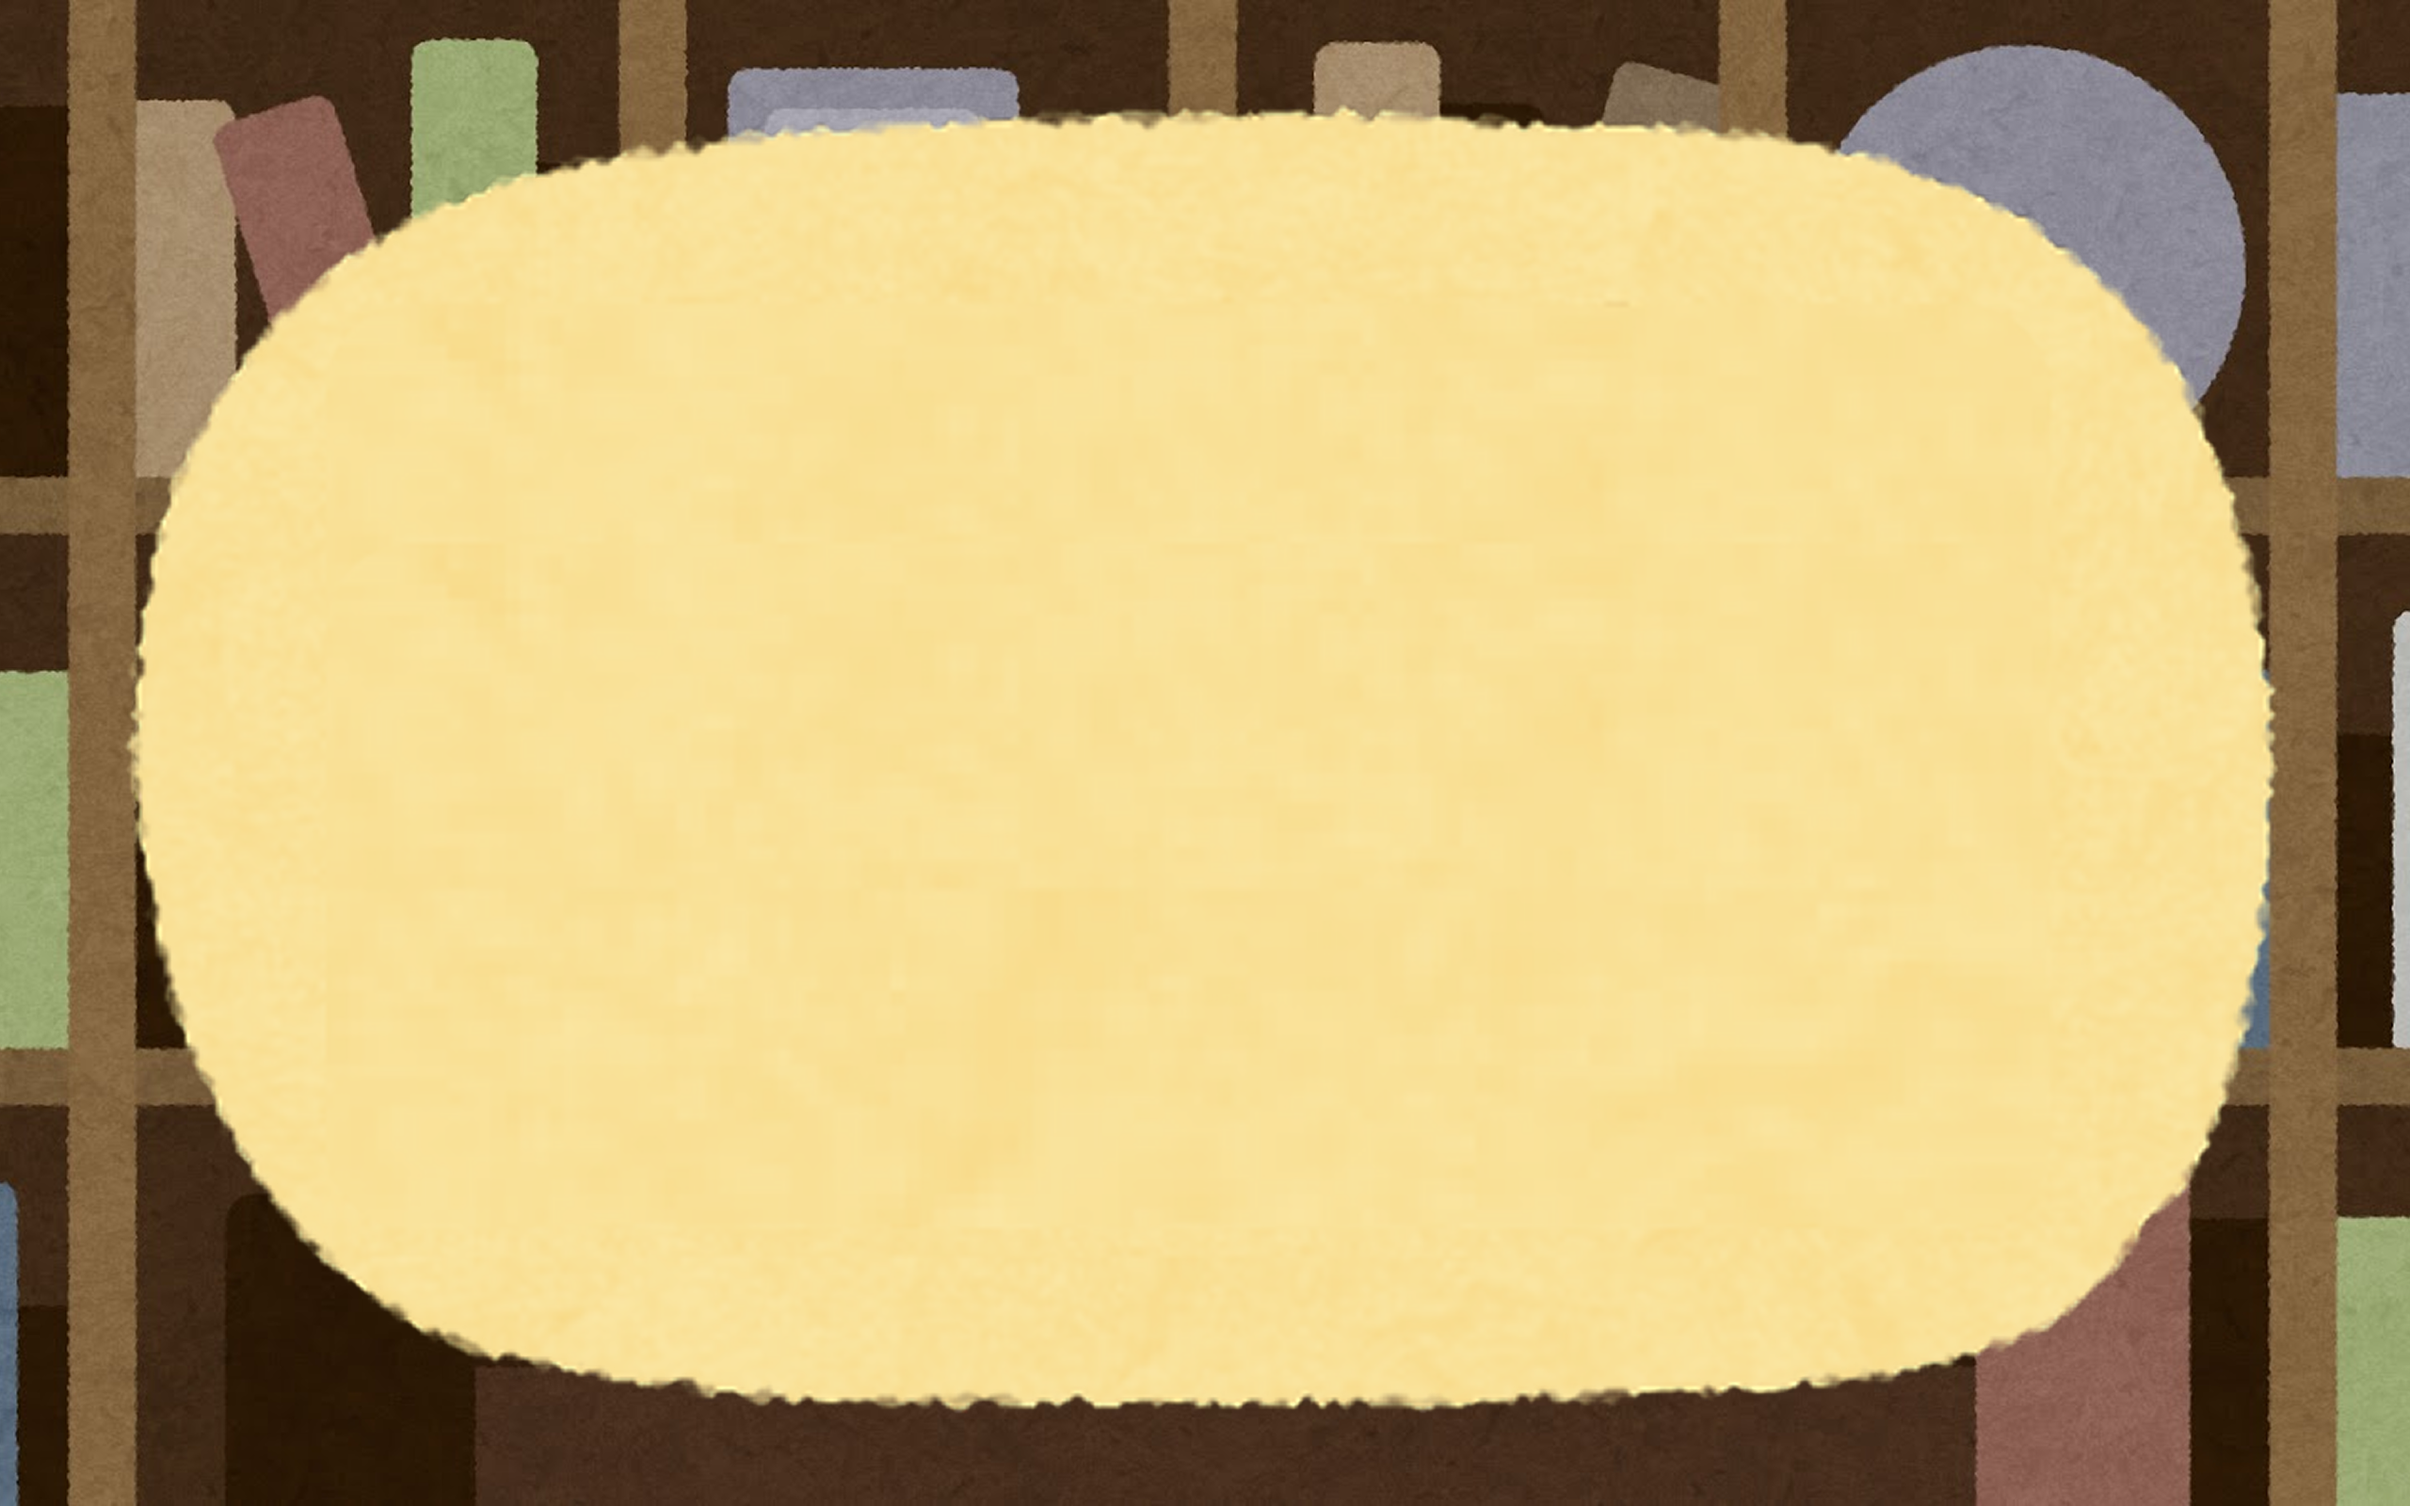
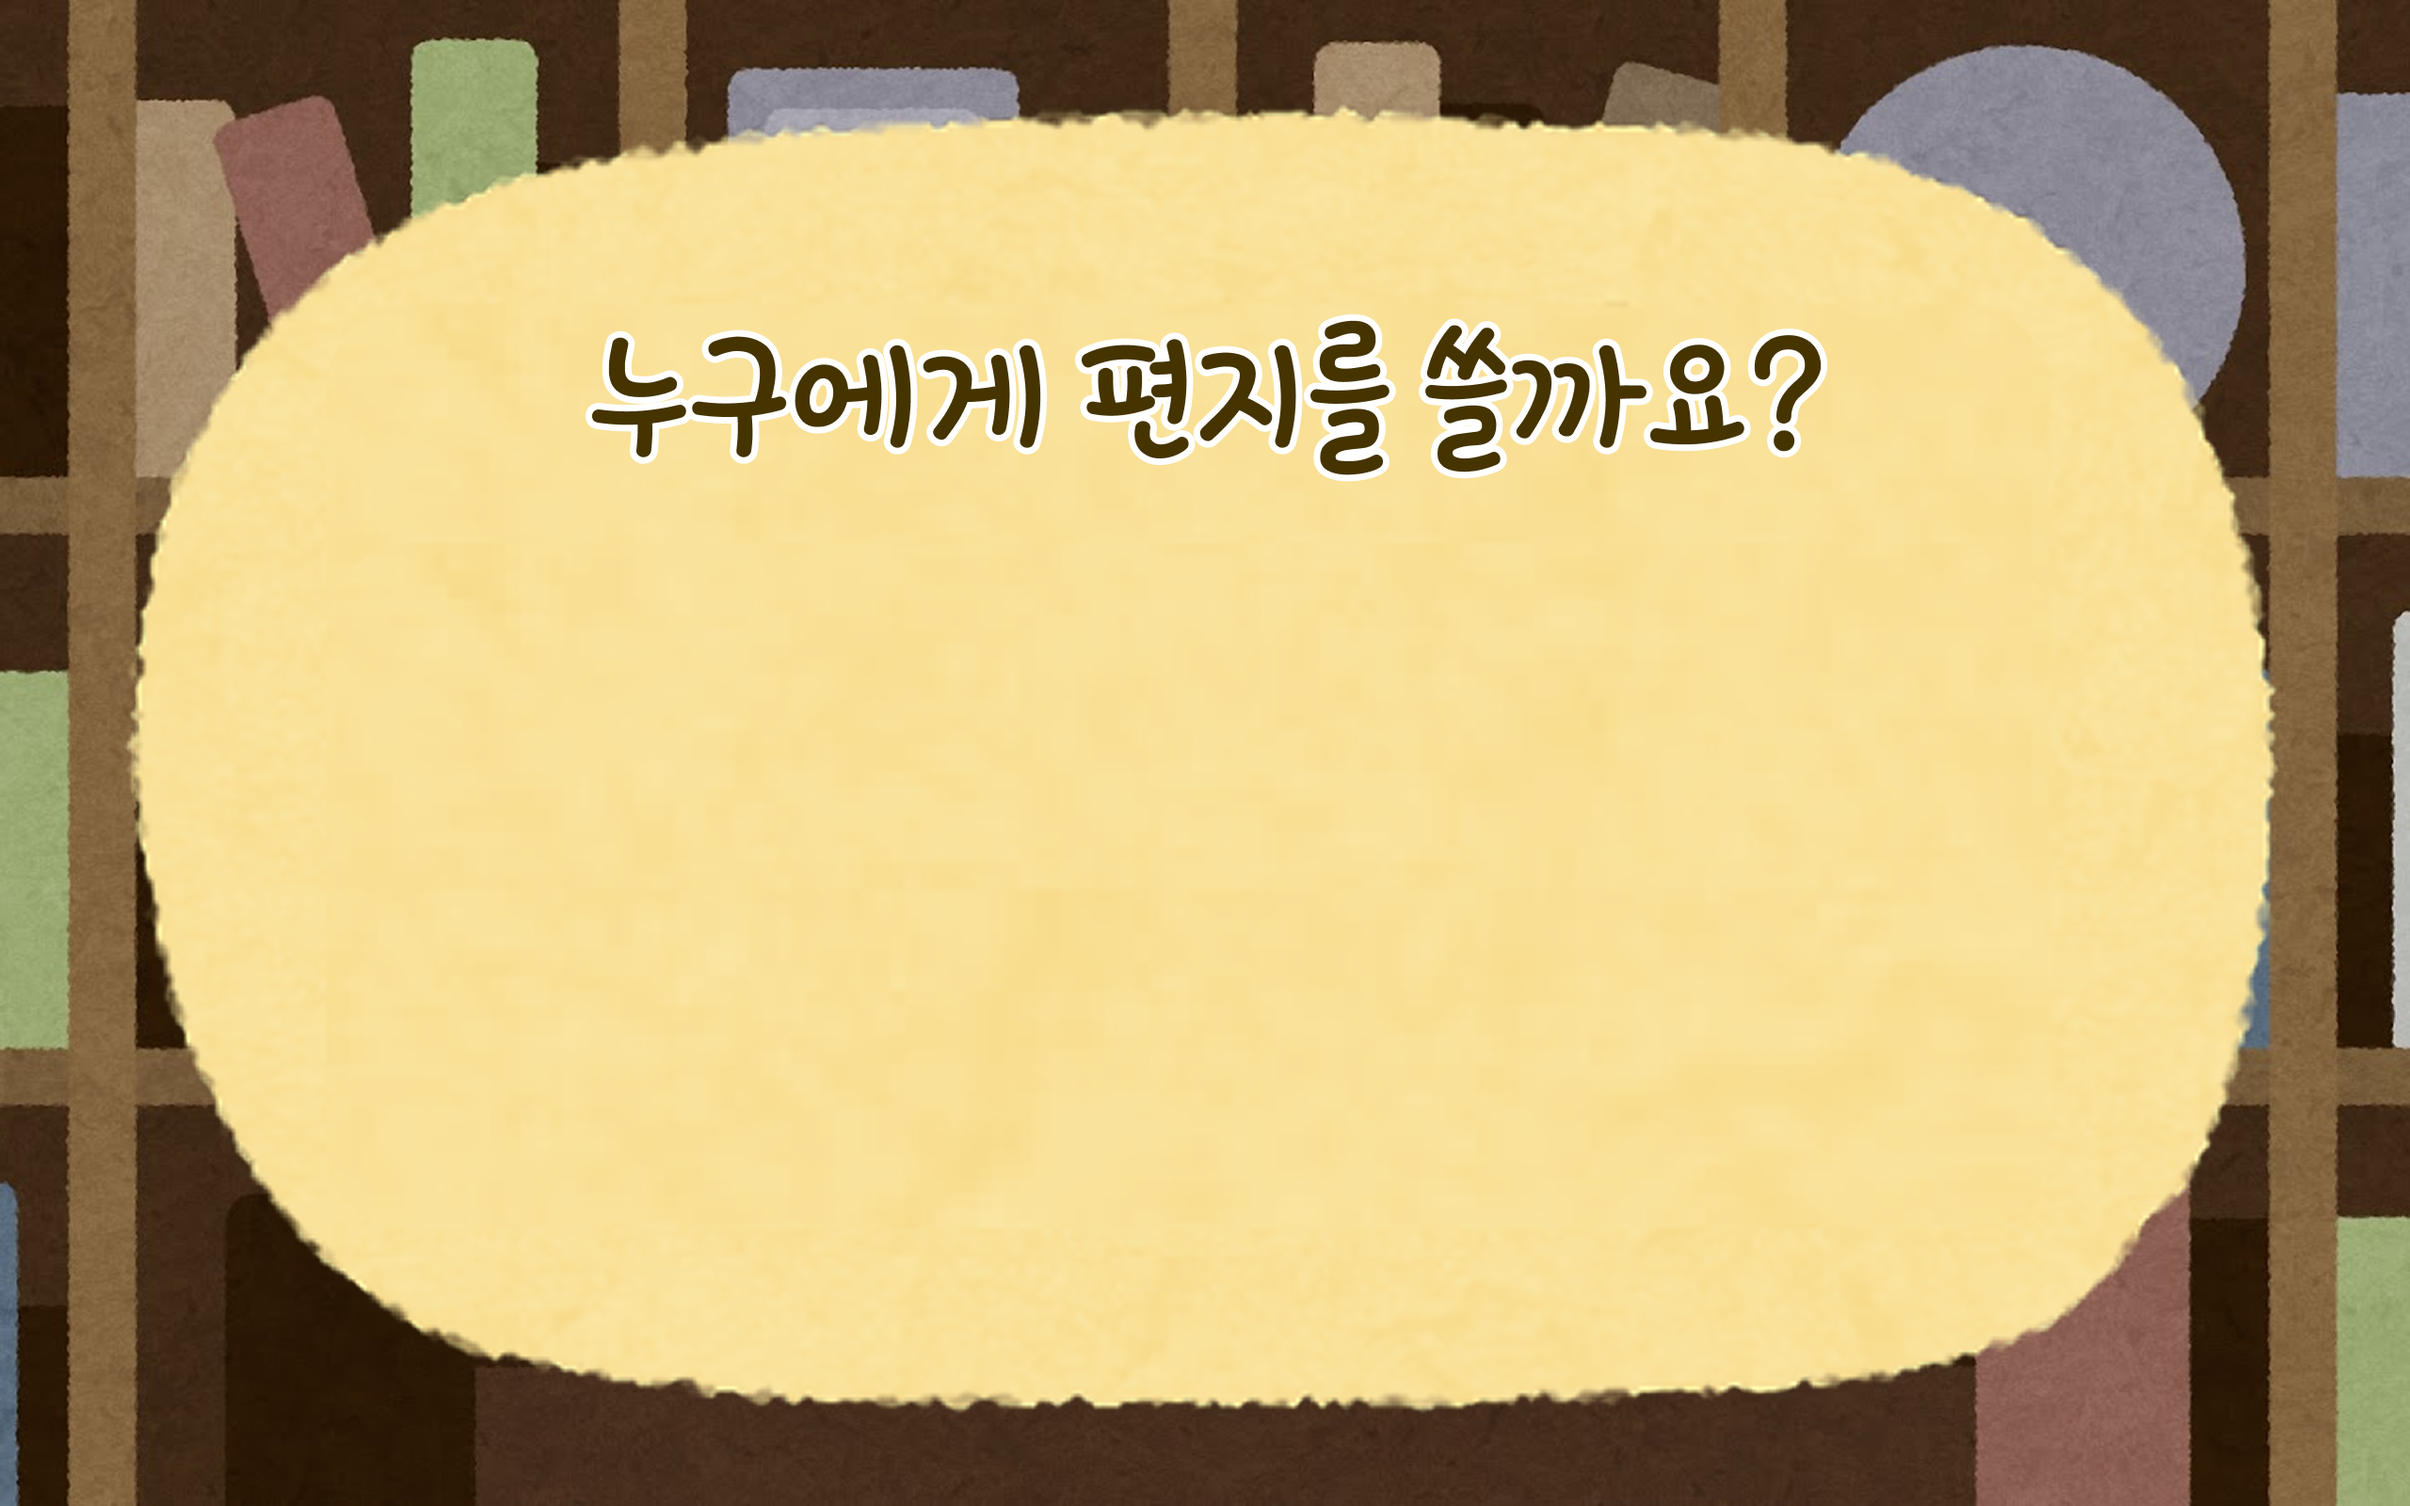
[feat] 로딩 및 편지 보내기 화면 구현 완료

Changed region(s): [[0.25, 0.1875, 0.7812, 0.3125]]

diff --git a/frontend/src/pages/Loading.tsx b/frontend/src/pages/Loading.tsx
@@ -1,9 +1,35 @@
 import mainpage from "../assets/images/mainpage/mainpage.webp";
+import Bear from "../assets/images/loading/bear.webp"
+import Rabbit from "../assets/images/loading/rabbit.webp"
+import Cat2 from "../assets/images/loading/cat2.webp"
+import Monkey from "../assets/images/loading/monkey.webp"
+import Note1 from "../assets/images/loading/note1.webp"
+import Note2 from "../assets/images/loading/note2.webp" 
+import Note3 from "../assets/images/loading/note3.webp"
 
 function Loading() {
   return (
-    <div className="fixed inset-0 w-screen h-screen bg-cover bg-center" style={{ backgroundImage: `url(${mainpage})` }}>
-      <h1>로딩 화면입니다.</h1>
+    <div className="fixed inset-0 w-screen h-screen bg-cover bg-center pointer-events-none" style={{ backgroundImage: `url(${mainpage})` }}>
+      
+      <div className="flex justify-center gap-28 mt-28">
+        <img src={Note1} alt="Note1" className="w-[10vw] max-w-[1200px] min-w-[100px] animate-bounce-infinite1" />
+        <img src={Note2} alt="Note2" className="w-[10vw] max-w-[1200px] min-w-[100px] animate-bounce-infinite2" />
+        <img src={Note3} alt="Note3" className="w-[10vw] max-w-[1200px] min-w-[100px] animate-bounce-infinite3" />
+        <img src={Note1} alt="Note1" className="w-[10vw] max-w-[1200px] min-w-[100px] animate-bounce-infinite1" />
+        <img src={Note2} alt="Note2" className="w-[10vw] max-w-[1200px] min-w-[100px] animate-bounce-infinite2" />
+        <img src={Note3} alt="Note3" className="w-[10vw] max-w-[1200px] min-w-[100px] animate-bounce-infinite3" />
+      </div>
+
+      <div className="flex items-center justify-center h-screen absolute bottom-28 left-0 w-full">
+        <h1 className="text-[10vh] font-bazzi text-outline-sm text-center">잠시만 기다려주세요~</h1>
+      </div>
+
+      <div className="fixed bottom-12 left-0 w-full flex justify-center gap-8">
+        <img src={Rabbit} alt="Cat1" className=" w-[20vw] max-w-[1200px] min-w-[100px] self-start animate-shake1" />
+        <img src={Bear} alt="Bear" className=" w-[25vw] h-[25vw] max-w-[1200px] min-w-[100px] self-end animate-shake2" />
+        <img src={Cat2} alt="Cat2" className=" w-[17vw] h-[23vw] max-w-[1200px] min-w-[100px] self-start animate-shake1" />
+        <img src={Monkey} alt="Monkey" className=" w-[20vw] h-[24vw] max-w-[1200px] min-w-[100px] self-end animate-shake2" />
+      </div>
     </div>
   );
 }

diff --git a/frontend/tailwind.config.js b/frontend/tailwind.config.js
@@ -29,10 +29,45 @@ export default {
           "80%": { transform: "translateY(0)" },
           "90%": { transform: "translateY(-10px)" },
         },
+        "bounce-shake1": {
+          '0%, 100%': { transform: 'rotate(-5deg)' },
+          '50%': { transform: 'rotate(5deg)' },
+        },
+        "bounce-shake2": {
+          '0%, 100%': { transform: 'rotate(5deg)' },
+          '50%': { transform: 'rotate(-5deg)' },
+        },
+        "bounce-infinite1": {
+          "0%, 100%": { transform: "translateY(0)" },
+          "50%": { transform: "translateY(-40px)" }
+        },
+        "bounce-infinite2": {
+          "0%, 100%": { transform: "translateY(0)" },
+          "50%": { transform: "translateY(-60px)" }
+        },
+        "bounce-infinite3": {
+          "0%, 100%": { transform: "translateY(0)" },
+          "50%": { transform: "translateY(-80px)" }
+        },
+        "fly": {
+          "0%": { transform: "translateX(0) translateY(0) scaleX(1)" },
+          "25%": { transform: "translateX(200px) translateY(-30px) scaleX(1)" },
+          "45%": { transform: "translateX(400px) translateY(0) scaleX(1)" },
+          "50%": { transform: "translateX(400px) translateY(-15px) scaleX(-1)" },
+          "75%": { transform: "translateX(200px) translateY(-30px) scaleX(-1)" },
+          "95%": { transform: "translateX(0) translateY(0) scaleX(-1)" },
+          "100%": { transform: "translateX(0) translateY(-15px) scaleX(1)" }
+        },
       },
       animation: {
         "pop-in": "pop-in 0.6s ease-out",
         "triple-bounce": "triple-bounce 1.2s ease-in-out 1", // 1번만 재생!
+        "shake1": "bounce-shake1 1.5s ease-in-out infinite", // 무한 반복!
+        "shake2": "bounce-shake2 1.5s ease-in-out infinite", // 무한 반복!
+        "bounce-infinite1": "bounce-infinite1 1.5s ease-in-out infinite", // 무한 반복!
+        "bounce-infinite2": "bounce-infinite2 2.0s ease-in-out infinite", // 무한 반복!
+        "bounce-infinite3": "bounce-infinite3 2.5s ease-in-out infinite", // 무한 반복!
+        "fly": "fly 4s ease-in-out infinite",
       },
     },
   },

diff --git a/frontend/src/pages/SendLetter.tsx b/frontend/src/pages/SendLetter.tsx
@@ -1,3 +1,4 @@
+import { useEffect } from "react";
 import { useNavigate } from "react-router-dom";
 
 import mainpage from "../assets/images/mainpage/mainpage.webp";
@@ -5,18 +6,29 @@ import LetterBird from "../assets/images/writeletter/letterbird.webp";
 
 function SendLetter() {
   const navigate = useNavigate();
+  useEffect(() => {
+    const timer = setTimeout(() => {
+      navigate("/home");
+    }, 4000);
+
+    return () => clearTimeout(timer);
+  }, [navigate]);
 
   return (
     <div className="fixed inset-0 w-screen h-screen bg-cover bg-center" style={{ backgroundImage: `url(${mainpage})` }}>
-      {/* 새 이미지 */}
-      <div className="absolute top-1/2 left-1/2 -translate-x-1/2 -translate-y-1/2">
+
+      <div className="text-[10vh] font-bazzi text-outline-sm text-center mt-28">
+        <h1 className="">무사히 편지를 전달했어요~</h1>
+        <h1 className="">도착까지 3일이 걸려요~</h1>
+      </div>
+
+      <div className="absolute top-2/3 left-1/2 -translate-x-2/3 -translate-y-1/2">
         <img
           src={LetterBird}
           alt="새 이미지"
-          className="w-[80vw] max-w-[1000px] h-auto object-contain drop-shadow-2xl animate-triple-bounce"
+          className="w-[50vw] max-w-[1000px] h-auto object-contain drop-shadow-2xl animate-fly"
         />
       </div>
-      <button onClick={() => navigate("/home")}>홈으로 돌아가기</button>
     </div>
   );
 }

diff --git a/frontend/src/pages/SendWho.tsx b/frontend/src/pages/SendWho.tsx
@@ -1,6 +1,6 @@
 import { useNavigate } from "react-router-dom";
 
-import writeletterbackground from "../assets/images/writeletter/writeletterbackground.webp";
+import selectbackground from "../assets/images/writeletter/selectbackground.webp";
 import BackButton from "../components/commons/BackButton";
 
 function SendWho() {
@@ -9,12 +9,13 @@ function SendWho() {
   return (
     <div
       className="fixed inset-0 w-screen h-screen bg-cover bg-center"
-      style={{ backgroundImage: `url(${writeletterbackground})` }}
+      style={{ backgroundImage: `url(${selectbackground})` }}
     >
       <BackButton to="/bookend"></BackButton>
-      <h1>누구에게 편지를 쓸까요?</h1>
-      <button onClick={() => navigate("/writeletter")}>신데렐라</button>
-      <button onClick={() => navigate("/writeletter")}>난쟁이</button>
+      <div className="flex justify-center h-screen gap-28 mt-28">
+        <button onClick={() => navigate("/writeletter")} className="text-[8vh] font-bazzi text-outline-sm text-center">신데렐라</button>
+        <button onClick={() => navigate("/writeletter")} className="text-[8vh] font-bazzi text-outline-sm text-center">난쟁이</button>
+      </div>
     </div>
   );
 }

diff --git a/frontend/src/pages/WriteLetter.tsx b/frontend/src/pages/WriteLetter.tsx
@@ -1,6 +1,8 @@
 import { useNavigate } from "react-router-dom";
 
-import writeletterbackground from "../assets/images/writeletter/writeletterbackground.webp";
+import writeletterbackground from "../assets/images/writeletter/writeletterback.webp";
+import record from "../assets/images/writeletter/record.webp";
+import send from "../assets/images/writeletter/send.webp";
 import BackButton from "../components/commons/BackButton";
 
 function WriteLetter() {
@@ -12,9 +14,16 @@ function WriteLetter() {
       style={{ backgroundImage: `url(${writeletterbackground})` }}
     >
       <BackButton to="/sendwho"></BackButton>
-      <h1>이 곳은 편지쓰는 곳입니다.</h1>
-      <button>녹음하기</button>
-      <button onClick={() => navigate("/home")}>보내기</button>
+      
+      <div className="fixed right-12 top-1/2 -translate-y-1/2 flex flex-col gap-4 px-16">
+        <button>
+          <img src={record} alt="record" className="w-[20vw] max-w-[1200px] min-w-[100px]"/>
+        </button>
+        <button onClick={() => navigate("/sendletter")}>
+          <img src={send} alt="send" className="w-[20vw] max-w-[1200px] min-w-[100px]"/>
+        </button>
+      </div>
+
     </div>
   );
 }

diff --git a/frontend/src/index.css b/frontend/src/index.css
@@ -95,7 +95,7 @@ button:focus-visible {
 
 @font-face {
   font-family: "Bazzi";
-  src: url("./assets/fonts/Bazzi\ OTF.otf") format("truetype");
+  src: url("./assets/fonts/Bazzi_OTF.otf") format("opentype");
   font-weight: normal;
   font-style: normal;
 }
